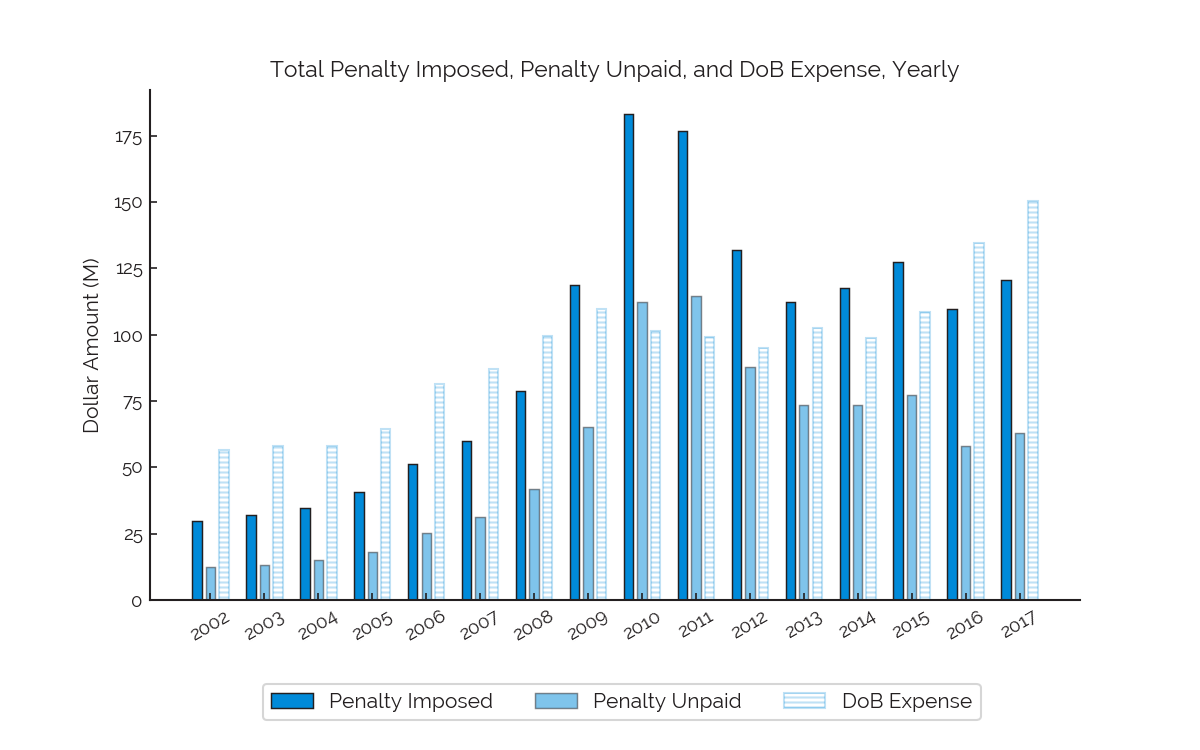
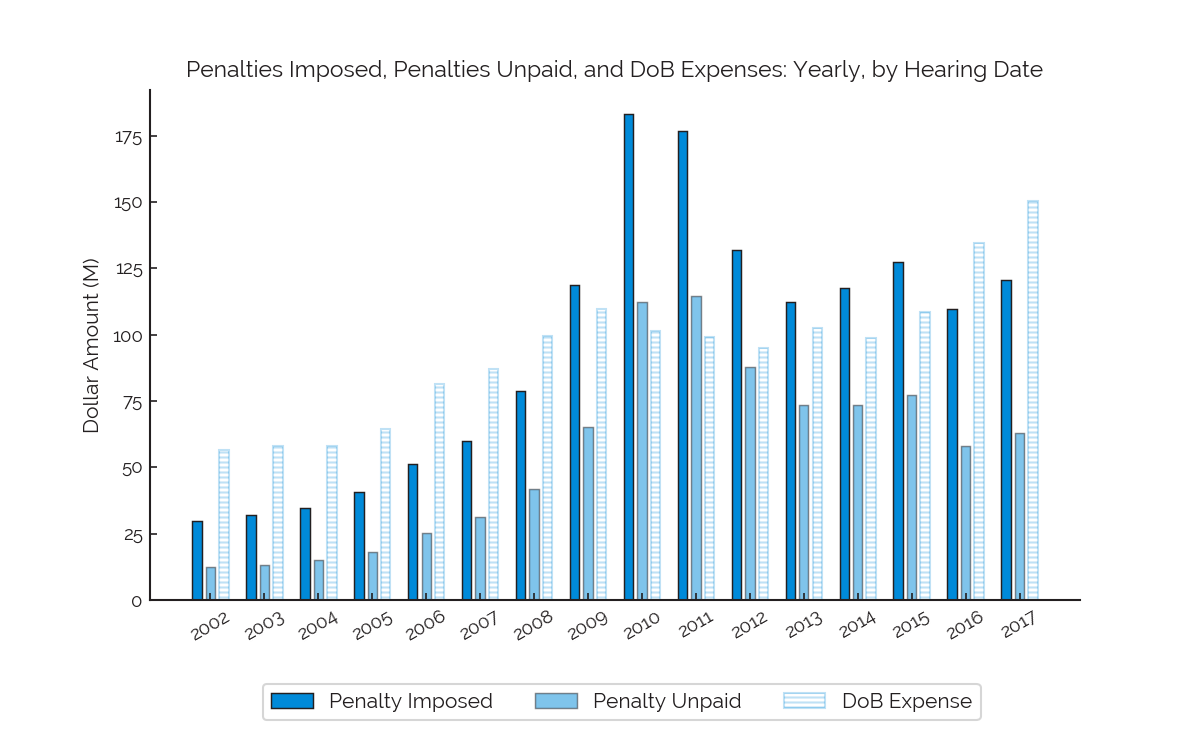
final draft ready

Changed region(s): [[0.1542, 0.0613, 0.8633, 0.1227]]

diff --git a/report.md b/report.md
@@ -83,12 +83,13 @@ With all of that out of the way, we can note the following:
 - the median annual paid ECB penalty, even when grouping by hearing date, has spent the last 3 years at $0[<sup>\*</sup>](#figure-9-data)
 - as the number of issued ECB violations has sky-rocketed over the last few years, the annual ratio of paid-to-imposed penalties has plummeted[<sup>\*</sup>](#figure-10-data)
 - despite starting the previous decade at around 25%, the ratio of the total $-value for in-default (no-show at hearing with an outstanding balance) ECB violations, proportionate to the total $-value of all imposed ECB violations, has held at over 50% for several years[<sup>\*</sup>](#figure-11-data)
-- despite the average number of days between violation imposition and ECB hearing date falling to under 100 back in 2013, this metric (albeit with less standard deviation around it) has risen to over 125 days[<sup>\*</sup>](#figure-12-data)
+- the median difference in days between dates of hearing and issuance for DoB-issued ECB violations last year breached 100 for the first time (in our data, since 2000) and is up 88% from 2013 [<sup>\*</sup>](#figure-12-data)
 - the temporality with which the DoB issues its own, administrative violations, which may be a part of the procedure for enforcing penalty payment, is surprising in its irregularity[<sup>\*</sup>](#figure-17-data)
+- the balance of unpaid DoB-issued ECB violations last year measured out at 42% of the DoB's total annual expenses
 
-More analysis on DoB-issued ECB penalties can be found [below](#violation-penalties), but suffice it to say that the ECB looks to be overwhelmed by the increase in issued violations over the last few years, and it may be having a hard time collecting the penalties for those violations.
+More analysis on DoB-issued ECB penalties can be found [below](#violation-penalties), but suffice it to say that the ECB looks to be overwhelmed by the increase in issued violations over the last few years, and that it may be having a hard time collecting the penalties for those violations.
 
-In a relevant argument, Danielle Chaim recently [noted](https://clsbluesky.law.columbia.edu/2020/02/20/how-common-ownership-can-lead-to-tax-avoidance/) in Columbia Law School's _CLS Blue Sky Blog_ that a large number of firms all committing tax avoidance at the same increases the likelihood of the government becoming overwhelmed in its enforcement, thus descreasing the probability of enforcement action. It is important that the city engage in, and have the proper resources to engage in, rigorous enforcement of its building code, lest developers, landlords, and others come to believe that there are only light consequences for flouting the building code. Even those industry practitioners who hold themselves to a higher standard may face pressure to cut corners if their competitors are repeatedly able to get away with delivering faster or cheaper solutions through kicking the metaphorical "consequence" can down the road. As we've already seen, such a culture can produce [severe consequences](https://www.nytimes.com/2019/12/30/nyregion/nyc-building-violations.html).
+In a relevant argument, Danielle Chaim recently [noted](https://clsbluesky.law.columbia.edu/2020/02/20/how-common-ownership-can-lead-to-tax-avoidance/) in Columbia Law School's _CLS Blue Sky Blog_ that a large number of firms all committing tax avoidance at the same increases the likelihood of the government becoming overwhelmed in its enforcement, thus decreasing the probability of enforcement action. It is important that the city engage in, and have the proper resources to engage in, rigorous enforcement of its building code, lest developers, landlords, and others come to believe that there are only light consequences for flouting the building code. Even those industry practitioners who hold themselves to a higher standard may face pressure to cut corners if their competitors are repeatedly able to get away with delivering faster or cheaper solutions through kicking the metaphorical "consequence" can down the road. As we've already seen, such a culture can produce [severe consequences](https://www.nytimes.com/2019/12/30/nyregion/nyc-building-violations.html).
 
 
 #### Recommendations - Summary
@@ -183,13 +184,13 @@ This dataset provides information on the DoB's own violations, which generally c
 - [data](#figure-1-data)
 ![ ](figures/percent_change_all.png  "percent_change_all")
 
-As many in real estate already know, there's a cyclical nature to construction activity. This is common in high-capEx industries such as construction and oil extraction where getting to a revenue-producing product requires heavy upfront spending. This leaves market partipants sensitive to long-term signals, due to a heavy exposure and lack of agility. These signals, however, may be both imperfect and followed by many a market participant. Crowding can lead to supply gluts (price dips), pullbacks (price increases), and eventual reivestment (in pursuit of the higher prices). We saw large increases in permit applications and issuances in the years immediately preceding the Great Recession (mid-aughts), and we saw another large run up from 2009 to around 2016 or 2017.
+As many in real estate already know, there's a cyclical nature to construction activity. This is common in high-capEx industries such as construction and oil extraction where getting to a revenue-producing product requires heavy upfront spending. This leaves market participants sensitive to long-term signals, due to a heavy exposure and lack of agility. These signals, however, may be both imperfect and followed by many a market participant. Crowding can lead to supply gluts (price dips), pullbacks (price increases), and eventual reinvestment (in pursuit of the higher prices). We saw large increases in permit applications and issuances in the years immediately preceding the Great Recession (mid-aughts), and we saw another large run up from 2009 to around 2016 or 2017.
 
-We also saw that, on the aggregate, complaints and violations track each other pretty well. However, we saw that these two (complaints and violations) seem to lag behind permit applications and issuances by about two years. We look to be in the midst of a plataeuing, or maybe even the beginnings of a downswing, in permitting activity. It's worth mentioning that there are more permits than applications each year since a single application might cover more than one type of work at a given job, with each type potentially receiving its own permit from the DoB.
+We also saw that, on the aggregate, complaints and violations track each other pretty well. However, we saw that these two (complaints and violations) seem to lag behind permit applications and issuances by about two years. We look to be in the midst of a plateauing, or maybe even the beginnings of a downswing, in permitting activity. It's worth mentioning that there are more permits than applications each year since a single application might cover more than one type of work at a given job, with each type potentially receiving its own permit from the DoB.
 
 As has already been noted the DoB has implemented a new system for applications and permitting known as [DOB NOW](https://www1.nyc.gov/site/buildings/industry/dob-now.page). This is the Department of Building's self-service online tool that enables applicants to do all business with the DoB online. We included the DOB NOW permits starting from 2017 (the number of permits issued through DOB NOW in 2016 was negligible).
 
-However, as has already been mentioned, we were limited in how we could make use of the DOB NOW applications data, due to there (at the time of this writing) not being a date column in that data set. As such, we estimated total annual applications from 2017 to 2019 based on applying the applications-to-permits ratio in 2016 to the number of permits issued in each of these subequent years. This method was chosen for the sake of simplicity. The estimated numbers are showed with a dotted line.
+However, as has already been mentioned, we were limited in how we could make use of the DOB NOW applications data, due to there (at the time of this writing) not being a date column in that data set. As such, we estimated total annual applications from 2017 to 2019 based on applying the applications-to-permits ratio in 2016 to the number of permits issued in each of these subsequent years. This method was chosen for the sake of simplicity. The estimated numbers are showed with a dotted line.
 
 #### Figure 2
 - [data](#figure-2-data)
@@ -243,7 +244,7 @@ One of the great catch-22's of modern life in NYC can be found in the interplay 
 
 The above ratios help to put the number of annual complaints and violations in context - i.e. let's scale each measure down by permit issuance, our proxy for construction activity.
 
-Complaints-to-permits reached 74% at the end of 2019, meaning that, for every 100 permits issued in 2019 there were 74 complaints made. To put this figure in context, this ratio sat at 43% in 2000, 95% in 2008, and 56% in 2015. One takeaway might be that real estate booms coincide with some combination of bad behavior, frustrated residents. That said, maybe the the 2008 peak had something to do with a more streamlined complaint-filing process - more work could be done to flesh this out. It's alo worth highlighting the growth this measure has exhibited over the last few years - it's almost 50% higher than it was 4 years ago.
+Complaints-to-permits reached 74% at the end of 2019, meaning that, for every 100 permits issued in 2019 there were 74 complaints made. To put this figure in context, this ratio sat at 43% in 2000, 95% in 2008, and 56% in 2015. One takeaway might be that real estate booms coincide with some combination of bad behavior, frustrated residents. That said, maybe the the 2008 peak had something to do with a more streamlined complaint-filing process - more work could be done to flesh this out. It's also worth highlighting the growth this measure has exhibited over the last few years - it's almost 50% higher than it was 4 years ago.
 
 Violations-to-complaints came in at 48% last year. This measure was at 40% in 2000, 58% in 2009 (record high), and 28% in 2015. Again, opportunities for confounding abound - but the growth since 2015 is real.
 
@@ -277,9 +278,9 @@ We can see here that `Construction` violations have absolutely skyrocketed since
 
 To better understand the underlying penalty data, we grouped the data by the years corresponding to two different date fields (hearing date and issue date) and calculated both the mean and median for each year. Note that _issue date_ is the date on which a violation is issued, and _hearing date_ is the date of the most recent, scheduled ECB hearing. A hearing presents an opportunity for the respondent named on a violation to either admit to or contest it.
 
-In statistics, the mean and median are two main measures for the [central tendency](https://en.wikipedia.org/wiki/Central_tendency) of a dataset - i.e. where do the values of an at-least-somewhat random variable tend to fall? Or, more colloquially: if you had to _expect_ one value from a dataset, what would it be? Expectation referes to a data's mean, but the mean can be unduly influenced by outliers, which the median is much more robust two. Thus, the measures are related but different, and their comparison can prove valuable.
+In statistics, the mean and median are two main measures for the [central tendency](https://en.wikipedia.org/wiki/Central_tendency) of a dataset - i.e. where do the values of an at-least-somewhat random variable tend to fall? Or, more colloquially: if you had to _expect_ one value from a dataset, what would it be? Expectation refers to a data's mean, but the mean can be unduly influenced by outliers, which the median is much more robust two. Thus, the measures are related but different, and their comparison can prove valuable.
 
-A positive (negative) difference between mean and median would indicate that the data is positively (negatively) [skewed](https://en.wikipedia.org/wiki/Skewness) - i.e. there are is a long / dispered "tail" stretching right-ward (left-ward) away from the probabilistic center of the data. In other words, skew indicates asymmetry - when the data falls away from its center, it tends to fall farther in one direction than in the other. The large, positive difference we can see between mean in median in this chart indicates that a relatively small number of high-valued penalties are "pulling" the mean away from the center of the data. Thus, the expectation for an imposed penalty is much higher than the actual midpoint of all imposed penalties.
+A positive (negative) difference between mean and median would indicate that the data is positively (negatively) [skewed](https://en.wikipedia.org/wiki/Skewness) - i.e. there are is a long / dispersed "tail" stretching right-ward (left-ward) away from the probabilistic center of the data. In other words, skew indicates asymmetry - when the data falls away from its center, it tends to fall farther in one direction than in the other. The large, positive difference we can see between mean in median in this chart indicates that a relatively small number of high-valued penalties are "pulling" the mean away from the center of the data. Thus, the expectation for an imposed penalty is much higher than the actual midpoint of all imposed penalties.
 
 Surprisingly, at the end of 2018 to 2019, both the mean and median measures (in the case of the median, only by issue date) sharply increased, indicating that the city issued many expensive DoB ECB violations.
 
@@ -344,32 +345,37 @@ There are nine types of hearing status as following:
 
 All ECB violations need to be adjudicated by the Office of Administrative Trials and Hearings (OATH), so we analyzed the day-differences between hearing and issue dates across all DoB-issued ECB violations, broken out by year.
 
-The above chart shows us the mean and median number of days that it took for OATH/ECB to hold a hearing (i.e. the delta, in days, between hearing and issue dates) from 2000 to 2019 (by hearing date year). As we have mentioned in figure 8, mean and median measure the central tendency of a distribution. Both mean and median of the days-delta in the post recession period (2008 - 2012) reached their highest in 2010. The average number of days for DoB to hold a hearing on ECB violation after issuance was about 195 days, while the median was 87 days. This was likely a result of the sharp increase in ECB violations (shown in figure 10), meaning that the city was probably overwhelmed at that time.
+The above chart shows us the mean and median number of days that it took for OATH/ECB to hold a hearing (i.e. the delta, in days, between hearing and issue dates) from 2000 to 2019 (by hearing date year). As we have mentioned in [figure 8](#figure-8), both mean and median measure the central tendency of a distribution, and a positive difference between the two indicates positive skewness, which we can see here. This means that there are likely extreme values that are "pulling" the mean higher.
 
-The median is much more robust to outliers than the mean is, so an up-tick in the media days-delta would be a solid indication of a slowdown in the ECB adjudication process. With that in mind, take note of the fact that between 2015 - 2019, the median days-delta value has grown by 87%. Therefore it could make sense to assume that the city may yet again be overwhelmed.
+Both the mean and median days-delta reached record-high values in 2010. For all the hearings that year, violations had been issued, on average, 195 days earlier; the median difference was 87 days. The fact that these measures were greater than they were in any previous years is likely a result of the sharp increase in ECB violations (shown in [figure 10](#figure-10)) that happened between 2007 and 2009. In other words, the city was probably overwhelmed.
+
+The median is much more robust to outliers than the mean is, so an up-tick in the media days-delta would be a solid indicator of a slowdown in the ECB adjudication process. With that in mind, take note of the fact that between 2015 - 2019, the median days-delta value has grown by 87%. It is therefore likely reasonable to assume that the city is, once again, overwhelmed.
 
 #### Figure 13
 
-|Quantiles (%) | 2017 (days) |2018 (days)  |
-|:-------:     |:-------:    |:--------:|
-|0.00	       |12           |  1
-|5.00	       |45           |  47
-|10.00	       |47           |  49
-|25.00	       |50           |  56
-|50.00	       |84           |  89
-|75.00	       |161          |  155
-|90.00	       |247          |  230
-|**95.00**     |**308**      |**291**
-|99.00	       |486          |  409
-|99.90	       |811          |  576
-|99.99	       |965          |	656
-|100.00        |1031         |  699
+|Quantiles (%) | 2017 (days) |2018 (days)|2019 (days)|
+|:-------:     |:-------:    |:--------:|:----------:|
+|0.00	       |12	         |  1       |1
+|5.00	       |45	         |  46      |49
+|10.00	       |47	         |  48      |53
+|25.00	       |49           |  54      |69
+|50.00	       |68	         |  86      |105
+|75.00	       |133          |  158     |175
+|90.00	       |212          |  246     |253
+|**95.00**     |**272**      |**311**   |**320**
+|99.00	       |697          |  668     |634
+|99.90	       |3092         |  3026    |2891
+|99.99	       |6279         |	7447    |3880
+|100.00        |10347        |  9639    |6506
 
-We further analyze the days-delta values described [above](#figure-12) through looking at some different [percentiles](https://en.wikipedia.org/wiki/Percentile) for this measure, in both 2017 and 2018. The value for a given percentile represents the value below which a given percent of the data lies. For instance, the median (it would be reasonable to say) is the 50th percentile.
 
-We highlight the 95th percentile to substantiate the claim that most violations have been heard within a year. In 2017, 95% of DoB-issued ECB violations saw hearings within 310 days of issuance. The 95% percentile of days-delta was in 2018. Penalty is imposed at hearing and is, as far as we know, due pretty much immediately, unless some other agreement has been made.
+We further analyze the days-delta values described [above](#figure-12) through looking at some different [percentiles](https://en.wikipedia.org/wiki/Percentile) for this measure, in 2017, 2018, and 2019 (by hearing date year). The value for a given percentile represents the value below which a given percent of the data lies. For instance, the median (it would be reasonable to say) is the 50th percentile.
+
+We highlight the 95th percentile to substantiate the claim that most violations have been heard within a year. In 2017, 95% of DoB-issued ECB violations that had a hearing that year had done so within 272 days of issuance. For 2018, this number was 311 days. A penalty, if imposed, is imposed at hearing and is (as far as we know) due pretty much immediately, unless some other agreement has been made.
 
 Thus, a full year (or 365 days) seems a good window over which to judge penalty collection, which adds strength to our paid-penalty analyses accompanying Figures 9 and 10.
+
+Finally, it is worth mentioning that we have about 30 years of DoB ECB violation data, so it is not inconceivable that, over this entire time period, a small number of violations managed to ride out the pre-hearing period for a very long time. These extreme values may also represent data errors. We're not sure.
 
 #### Figure 14
 - [data](#figure-14-data)
@@ -475,9 +481,11 @@ We wanted to put some of the normalized values we've been discussing into a doll
 
 The DoB's expense data was only available for 2002 - 2017 in the dataset that we chose to use, and so we restricted our plot to this time range.
 
-It is surprising to see that penalties imposed exceeded the total expense of DoB from 2009 to 2015, particularly so for 2010 and 2011, where penalties unpaid also exceeded the DoB's annual expenses.
+It is surprising to see that penalties imposed exceeded the total expense of the DoB from 2009 to 2015. For 2010 and 2011, penalties unpaid also exceeded the DoB's annual expenses.
 
-Given that, in 2009 the average delta between issue and hearing dates was around 200 days, most of the penalty imposed in 2010 were cases issued in 2009 or even earlier. Total DoB expense has increased since 2014 and total penalty started to drop two years later in 2016. However, the paid to imposed ratio since 2016 started to drop sharply, which is not a good sign on penalty collection. The City really need to improve its penalty collection process so that they could spend more money on law enforcement to end this infinite loop. 
+The DoB's expenses have increased since 2014, during which time penalties imposed (in dollars) have oscillated, and were up only a small bit as of 2017, our most recent year. Unpaid penalties for 2017 are down from where they were a couple of years prior, but still tie out, proportionately, to 42% of the DoB's total annual expenses.
+
+The DoB could potentially get much more funding for itself, and therefore many more resources with which it could squash problematic activity, if it was better able to collect on outstanding payments.
 
 [^](#table-of-contents)
 ## Recommendations
@@ -490,11 +498,11 @@ Rigorous enforcement of DoB-issued ECB penalty collection would likely reduce th
 - increasing the likelihood of penalty payment
 - discouraging bad behavior that may be driven by the opportunity for low-cost penalty default
 
-Additionally, the maintenance of a reasonable gap between issuance and hearing dates for DoB-issued ECB penalties would ensure that developers and landlords could realize their harmful behavior immediately and would also reduce backlog in ECB violations cases.
+Additionally, the maintenance of a reasonable gap between issuance and hearing dates for DoB-issued ECB penalties would reduce the ability of harmful actors to delay, e.g. until units in a new building are sold, penalty payment in such a way that is helpful to their cash flows.
 
 The achievement of these goals may require additional human resources, since it seems that the increases in penalty collection delay or laxness are well-correlated to increases in penalty issuance volumes. That said, automated and possibly statistical tools could allow for a more efficient and manageable path to execution.
 
-Finally, the City needs to ensure that violation penalties do not stay stagnant in competitive real state markets. The profit from arising in residential housing price should be priced in penalty to avoid building owners and developers are careless on their violations. 
+Finally, the city needs to ensure that violation penalties do not remain stagnant. New York City, even in its ups and downs, remains a competitive real state market. The profit from arising in residential housing price should be priced in penalty to avoid building owners and developers are careless on their violations. 
 
 
 [^](#table-of-contents)
@@ -1040,7 +1048,7 @@ Answers to such questions would better arm the city to weed out problematic acto
 
 
 #### Figure 18 Data
-- *Total DoB Expense, Penalty Imposed, and Penalty Paid, Yearly*
+- *Penalties Imposed, Penalties Unpaid, and DoB Expenses: Yearly, by Hearing Date*
 - All numbers are in Millions
 - [back to figure](#figure-18)
 
